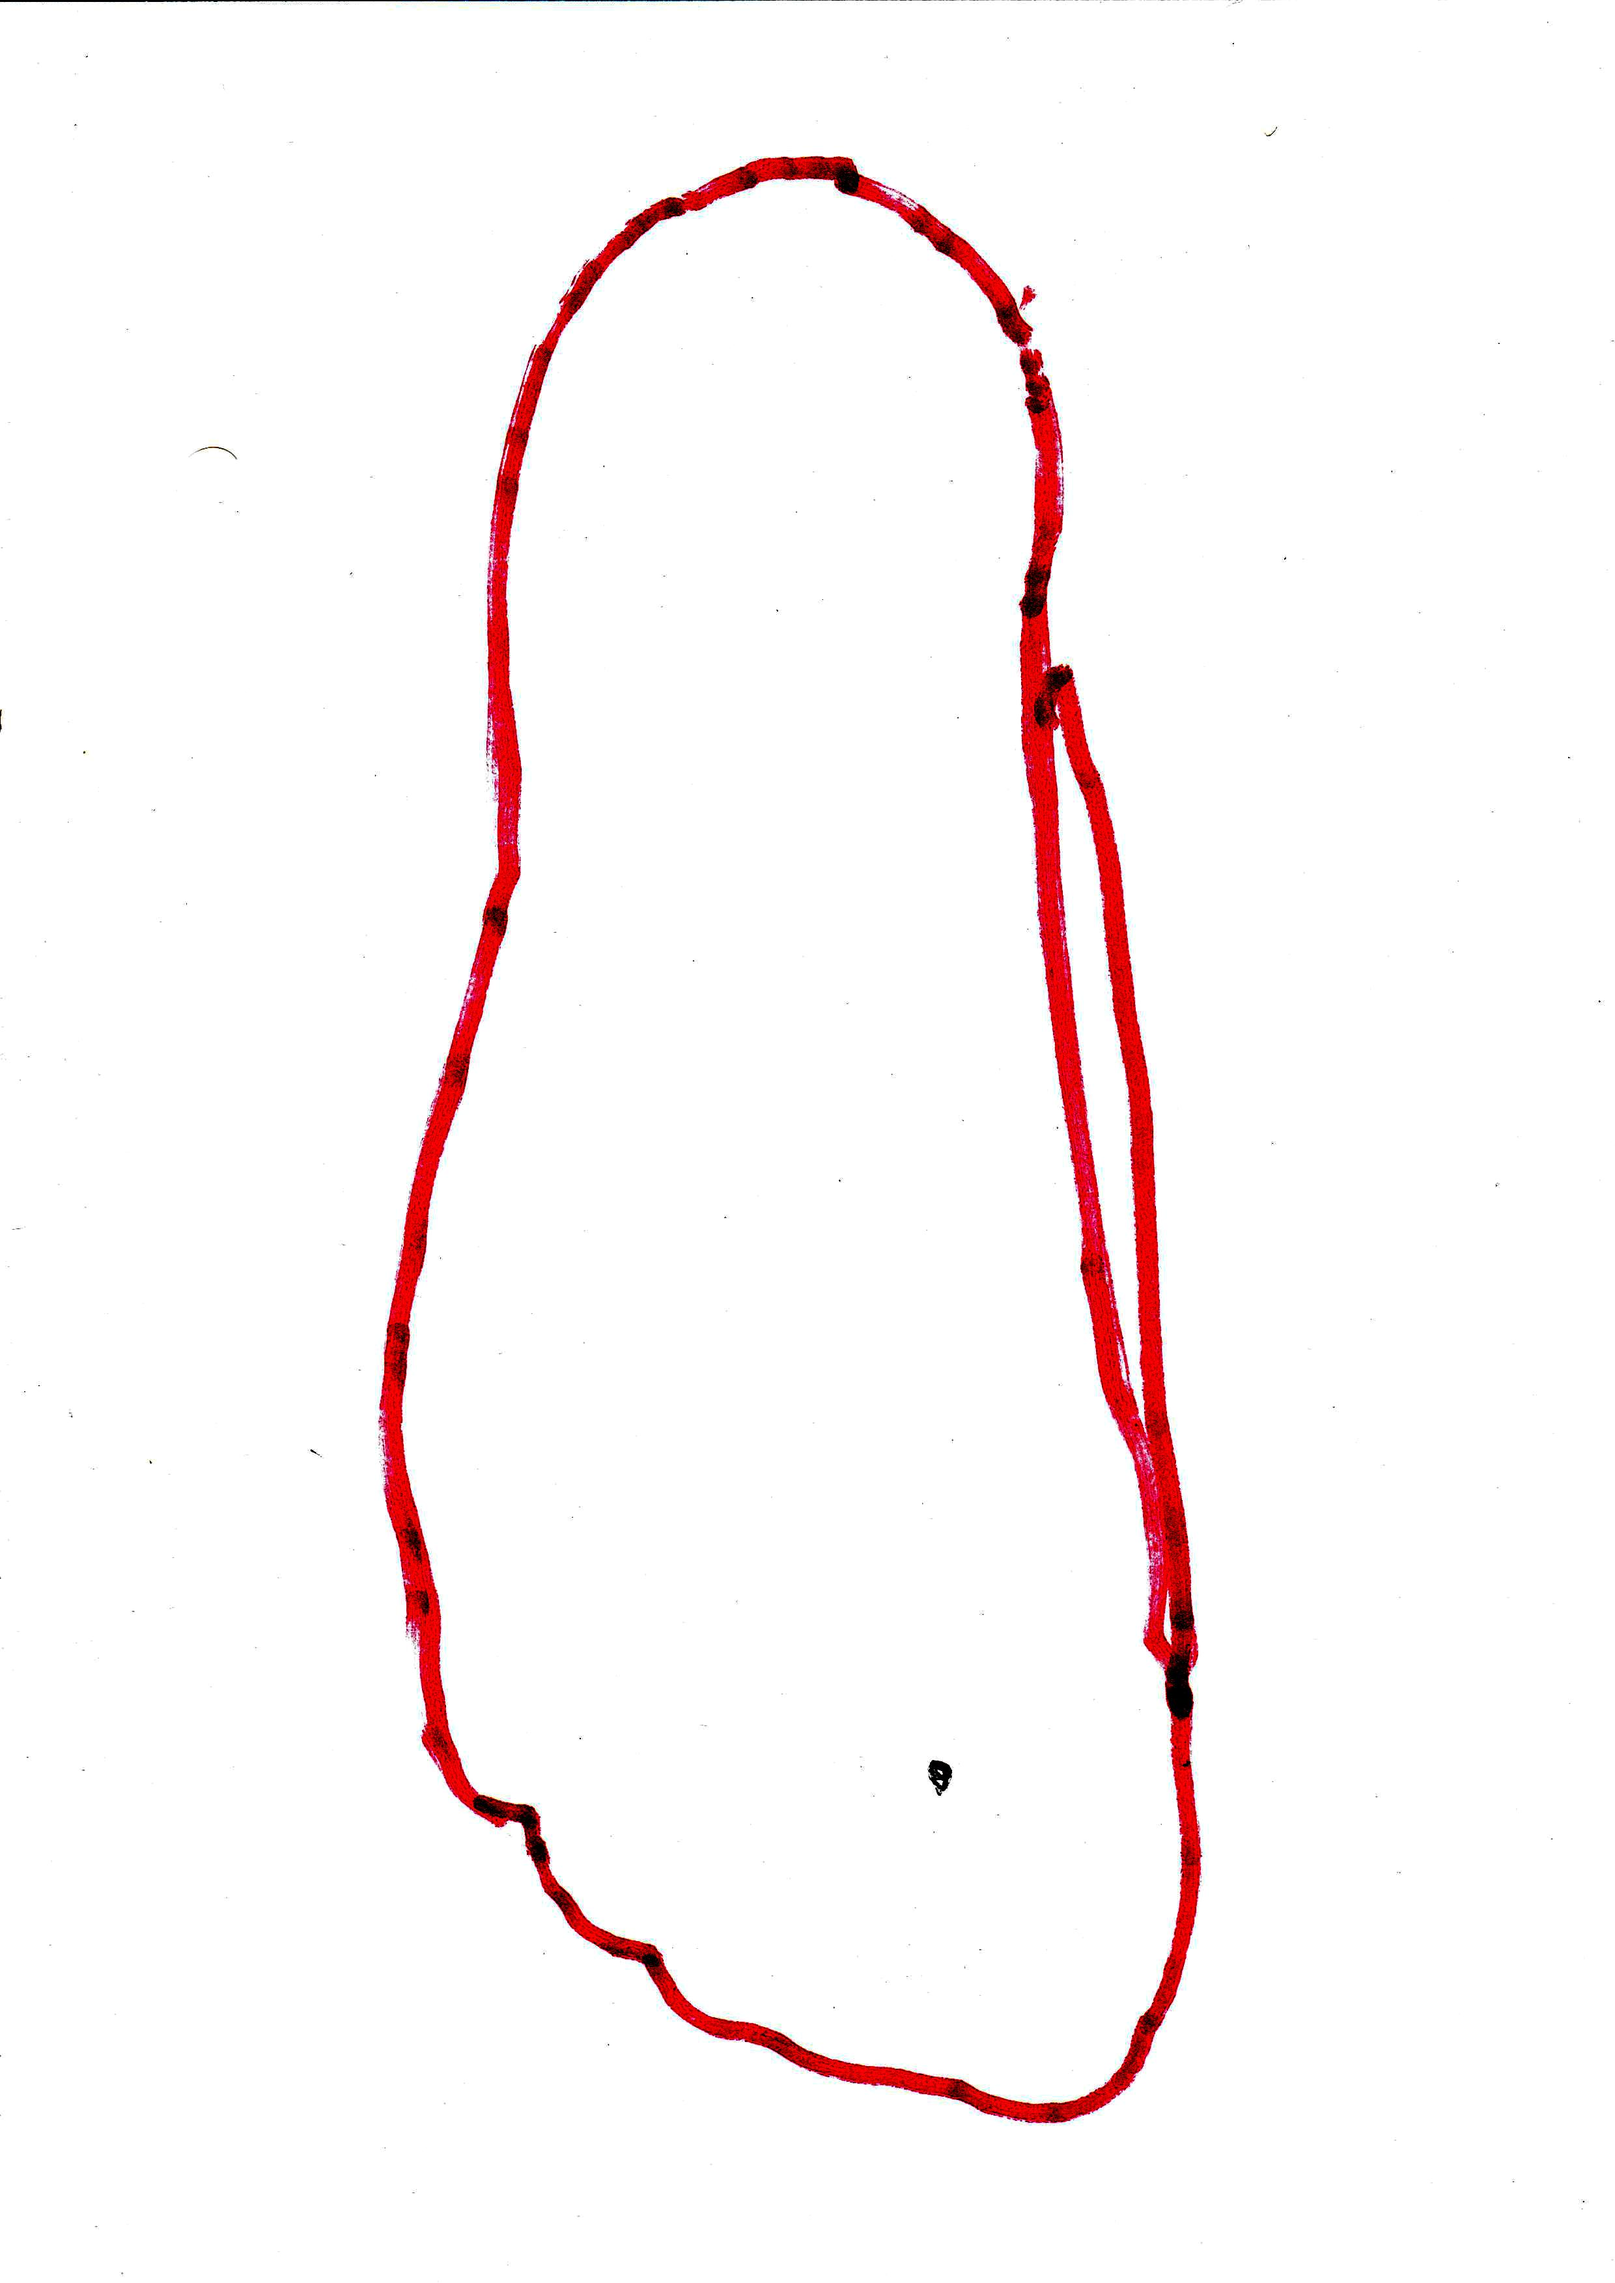
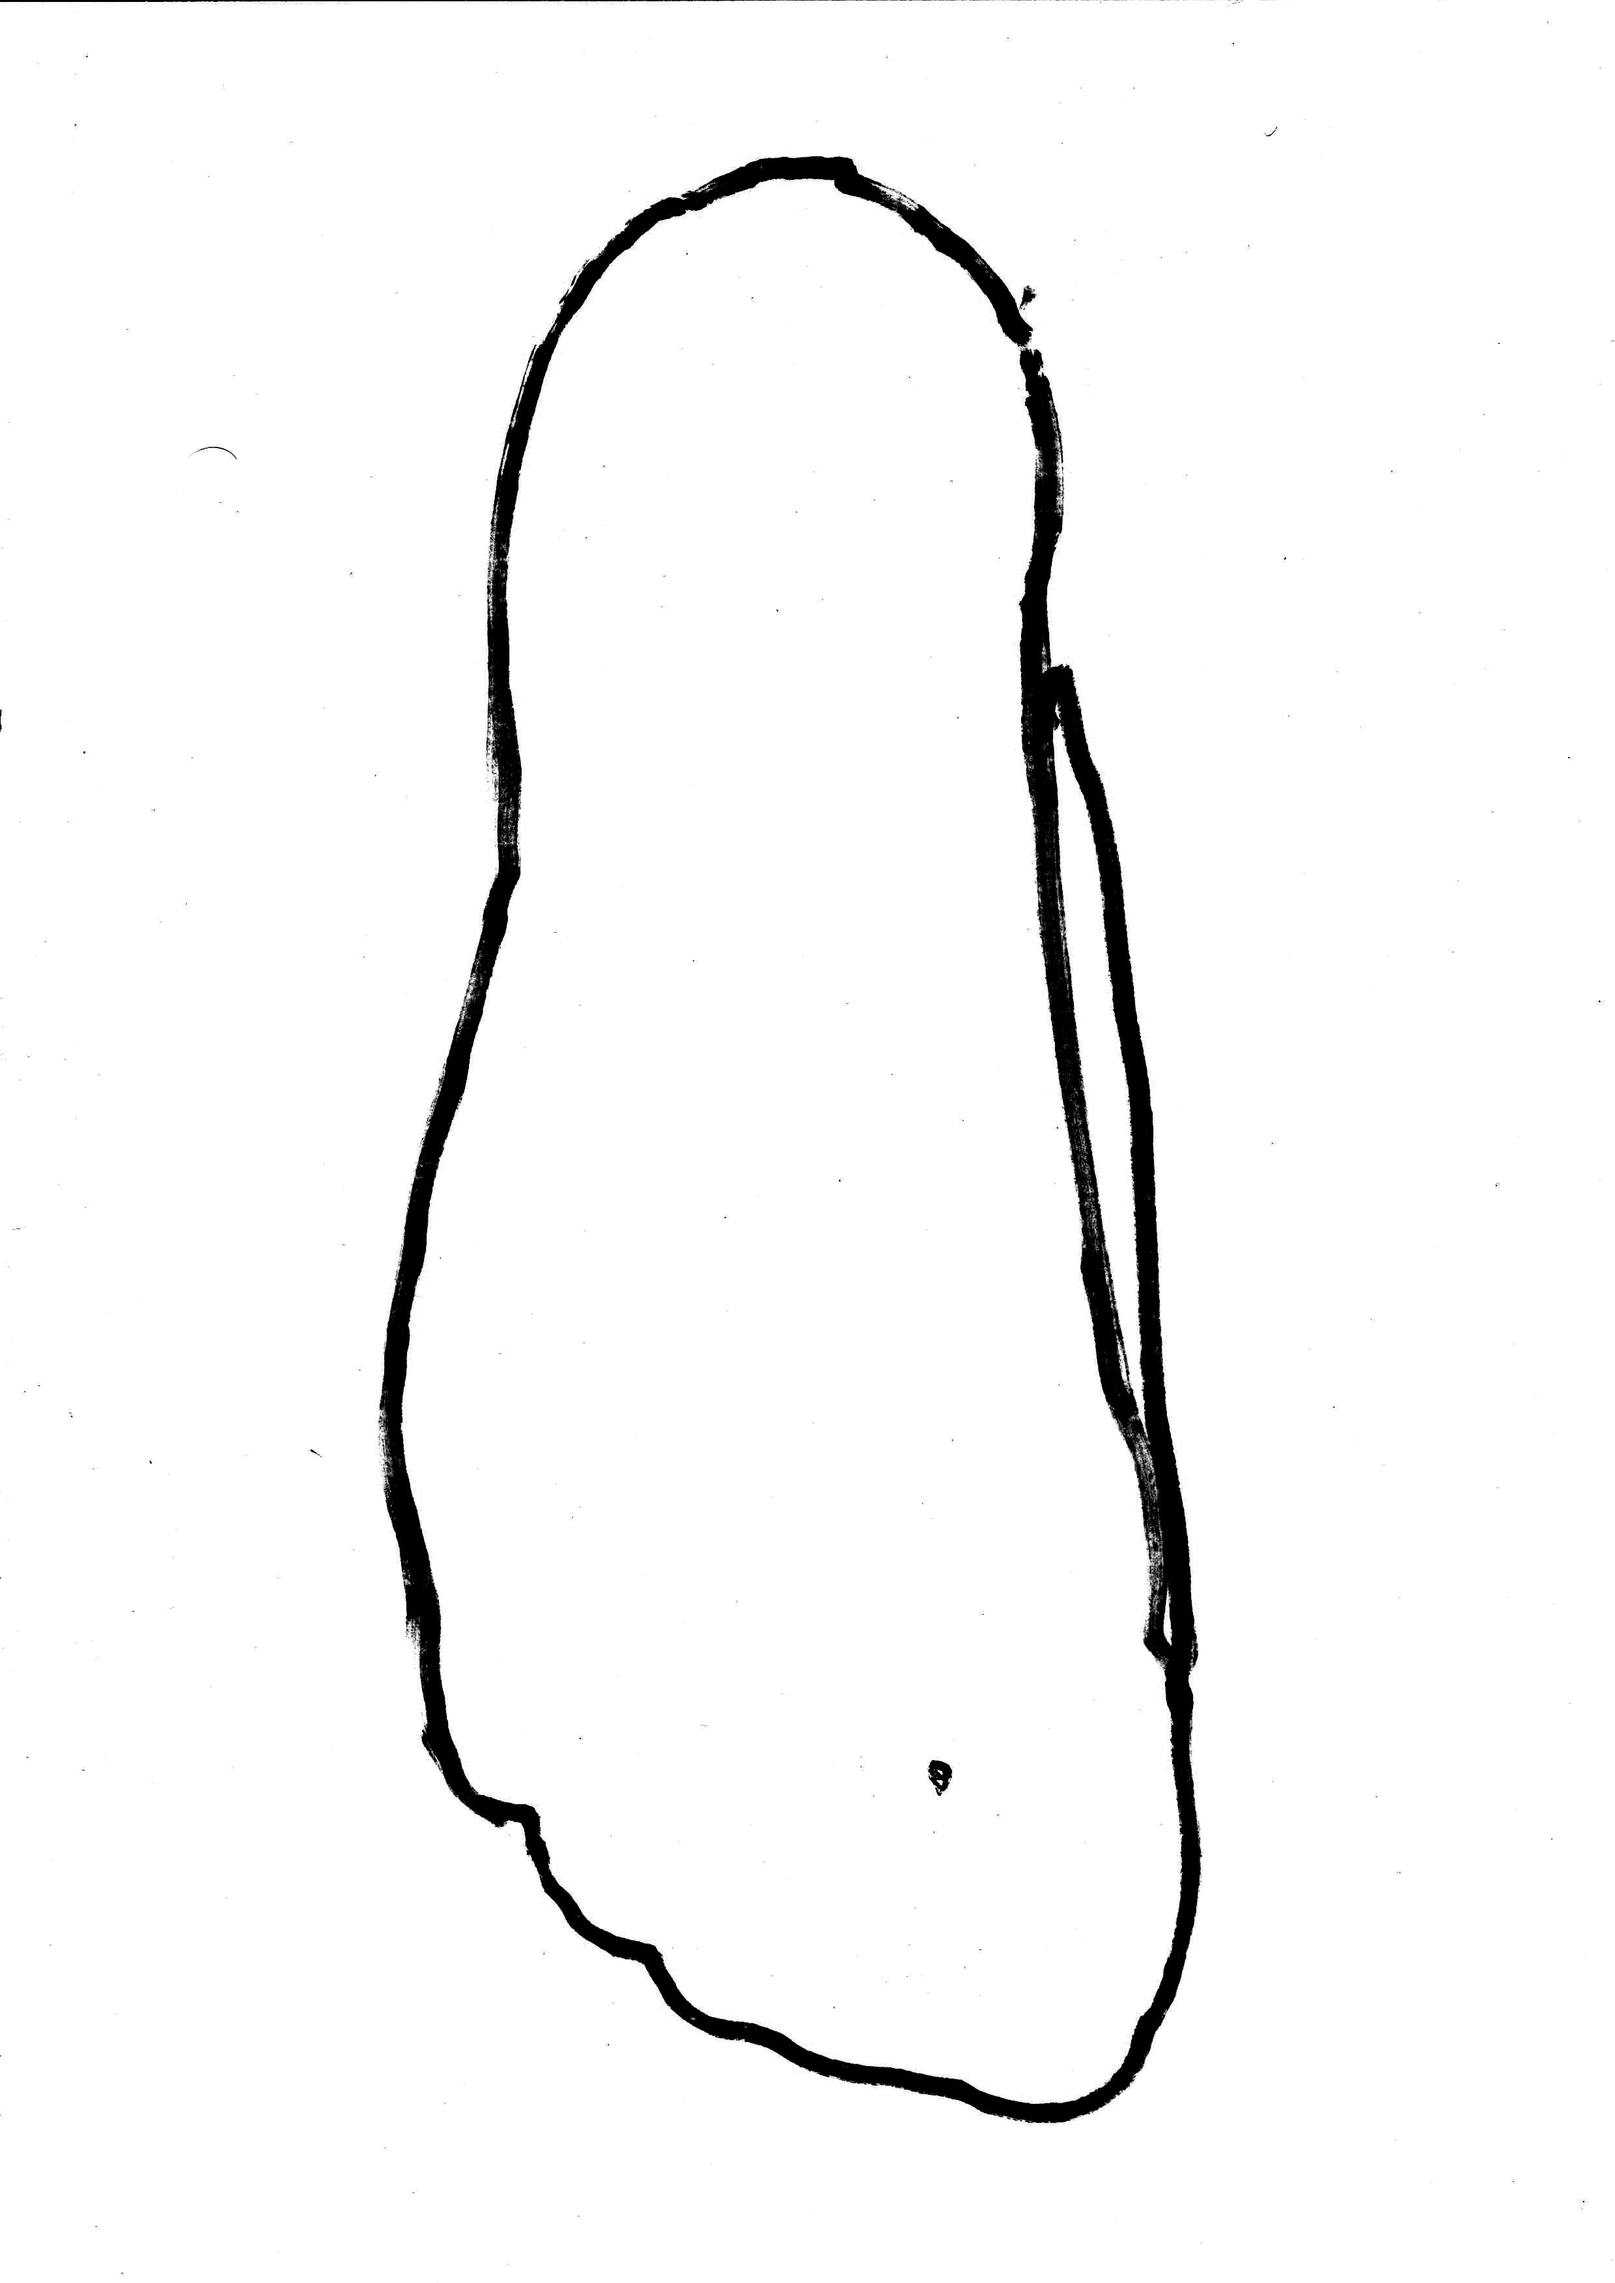
made matplotlib image but its inversed

diff --git a/TemplateCreator.py b/TemplateCreator.py
@@ -28,6 +28,32 @@ def enhance_image(image, threshold=128):
 	plt.show()
 	return enhanced_image
 
+def img2point(image):
+	pixel_data = np.array(image)
+
+	# Get height and width of the image
+	height, width = pixel_data.shape
+
+	# Create lists to store x, y coordinates
+	x_coords = []
+	y_coords = []
+
+	# Iterate through each pixel and create point cloud
+	for y in range(height):
+		for x in range(width):
+			if pixel_data[y][x] == 255:  # Check if pixel is white (representing a line)
+				x_coords.append(x)
+				# Invert y-axis to match typical image coordinates
+				y_coords.append(height - y)
+
+	plt.figure(figsize=(8, 8))
+	plt.scatter(x_coords, y_coords, s=1, color='black')  # Adjust 's' for point size
+	plt.gca().invert_yaxis()  # Invert y-axis to match image orientation
+	plt.xlabel('X')
+	plt.ylabel('Y')
+	plt.title('2D Point Cloud from Image')
+	plt.show()
+
 def vectorize_image(image):
 	img = cv2.imread(image)
 	gray = cv2.cvtColor(img, cv2.COLOR_BGR2GRAY)
@@ -56,6 +82,8 @@ def vectorize_image(image):
 pic = load_image("/home/benjamin/Documents/Projects/RAM/right.jpg")
 
 epic = enhance_image(pic)
+
+point = img2point(epic)
 
 
 epic.save("cont.jpg")
